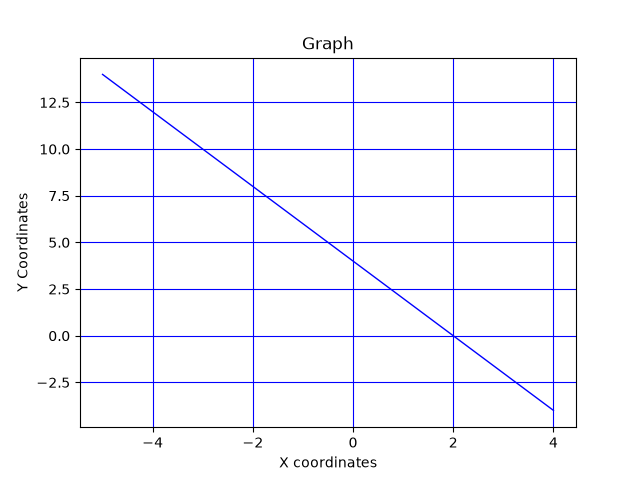
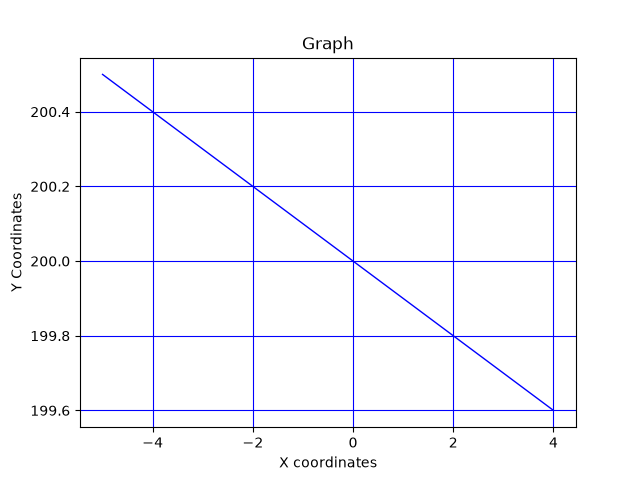
added radicals api (originaly from pc in mathematics dan folder for the site) and its rough and needs to be tested

diff --git a/Radicals_API.py b/Radicals_API.py
@@ -1,0 +1,56 @@
+variable = []
+
+class Radicals_Function:
+    list_of_perfect_roots = [4, 9, 16, 25, 36, 49, 64, 81, 100, 121, 144, 169, 196, 225, 256, 289, 324, 361, 400, 441, 484, 529, 576, 625, 676, 729, 
+        784, 841, 900, 961, 1024, 1089, 1156, 1225, 1296, 1369, 1444, 1521, 1600, 1681, 1764, 1849, 1936, 2025, 2116, 2209, 2304, 2401, 2500, 2601, 2704, 2809, 2916, 3025, 3136, 3249, 3364, 3481, 3600, 3721, 3844, 3969, 4096, 4225, 4356, 4489, 4624, 
+        4761, 4900, 5041, 5184, 5329, 5476, 5625, 5776, 5929, 6084, 6241, 6400, 6561, 6724, 6889, 7056, 7225, 7396, 7569, 7744, 7921, 8100, 8281, 8464, 8649, 8836, 9025, 9216, 9409, 9604, 9801, 10000, 10201, 10404, 10609, 10816, 11025, 11236, 11449, 
+        11664, 11881, 12100, 12321, 12544, 12769, 12996, 13225, 13456, 13689, 13924, 14161, 14400, 14641, 14884, 15129, 15376, 15625, 15876, 16129, 16384, 16641, 16900, 17161, 17424, 17689, 17956, 18225, 18496, 18769, 19044, 19321, 19600, 19881, 2016]
+
+    def __init__(self,radical=''):
+        self.radical = radical
+        self.simplified_radical = ''
+
+    def set_new_radical(self,new_radical):
+        self.radical = new_radical
+
+
+    def sep_c_and_root(self):
+        root = self.radical
+        if "√" in root:
+            root_lis = root.split("√")
+            root = root_lis[-1]
+            if root_lis[0] == "" or root_lis[0] == " ":
+                original_coefficient = "1"
+            else:
+                original_coefficient = root_lis[0]
+        else:
+            original_coefficient = "1"
+        sqrt_value = root_lis[1]
+        return original_coefficient,sqrt_value
+
+    def check_perfect_root(self):
+        temproot = str(float(self.radical)**0.5)
+        if temproot.endswith(".0"):
+            temproot = str(float(temproot) * float(self.sep_c_and_root(self.radical)[0]))
+            temproot = temproot.replace(".0","")
+            answer = temproot
+
+        else:
+            for perfectroot in reversed(Radicals_Function.list_of_perfect_roots):
+                newroot = str(float(self.radical)/perfectroot)
+                if newroot.endswith(".0"):
+                    coefficient = (perfectroot**(0.5))
+                    newroot = newroot.replace(".0","")
+                    coefficient = str(float(self.sep_c_and_root()[0]) * coefficient)
+                    coefficient = coefficient.replace(".0","")
+                    answer = coefficient + "√" + newroot
+                    break
+                else:
+                    answer = self.sep_c_and_root()[0] + "√" + self.radical
+        return answer
+
+
+if __name__ == "__main__":
+    #print(original_root)
+    #print("=",answer)
+    pass

diff --git a/tester.py b/tester.py
@@ -1,17 +1,29 @@
 from Quadratic_API import Quadratic_Function
-from Trigonometry_API import Trigonometric_Function
+from Trigonometry_API import Trigonometric_Function_Radians
 
-obje = Quadratic_Function(3,4,5)
+#obje = Quadratic_Function(3,4,5)
 
-obje.display_point_slope_form()
-obje.display_root_form()
-obje.display_standard_form()
+#obje.display_point_slope_form()
+#obje.display_root_form()
+#obje.display_standard_form()
 
 from Shape_API import Shape_Function
 
 obje = Shape_Function()
 
-print(obje.cylinder_colume(3,5))
+#print(obje.triangular_prism_volume(1,1,1))
+
+from Linear_API import Linear_Function
+
+myfunc = Linear_Function(-0.1,200,200)
+
+#print(myfunc.graph_linear_function())
+
+from Exponential_API import Exponential_Function
+
+expfunc = Exponential_Function(-1.08)
+
+expfunc.graph_expo_function()
 
 
 
